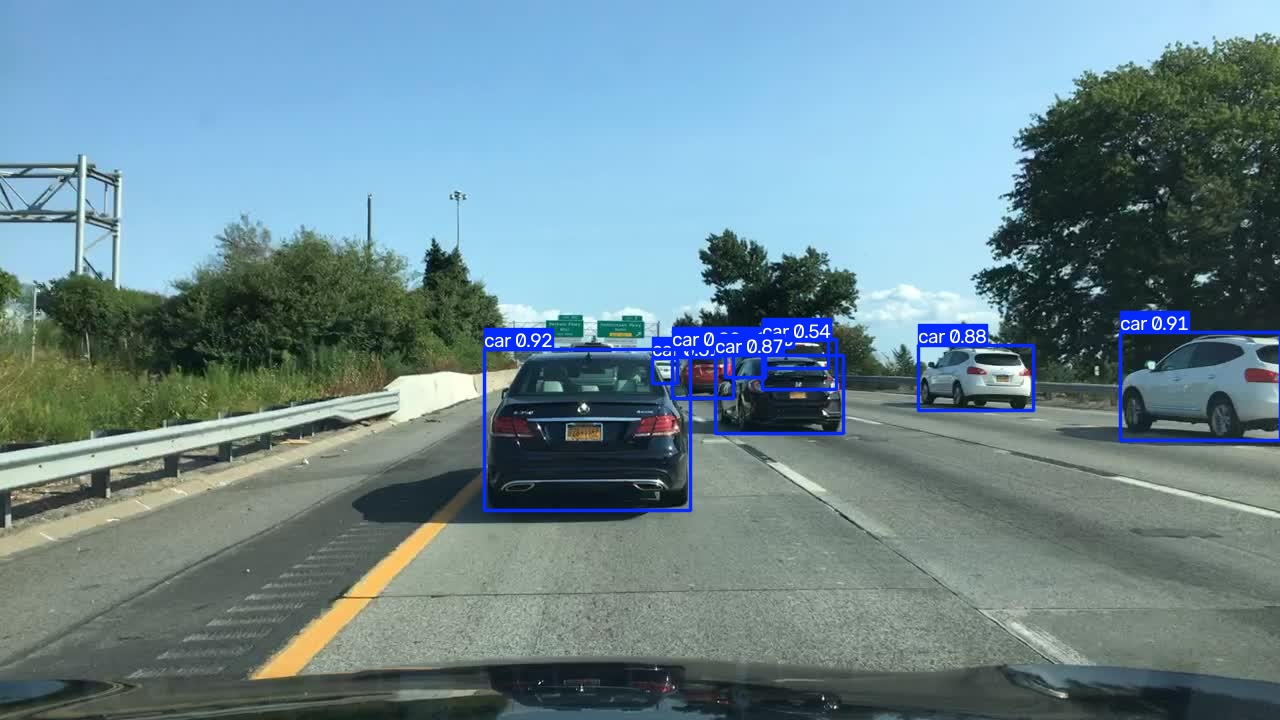
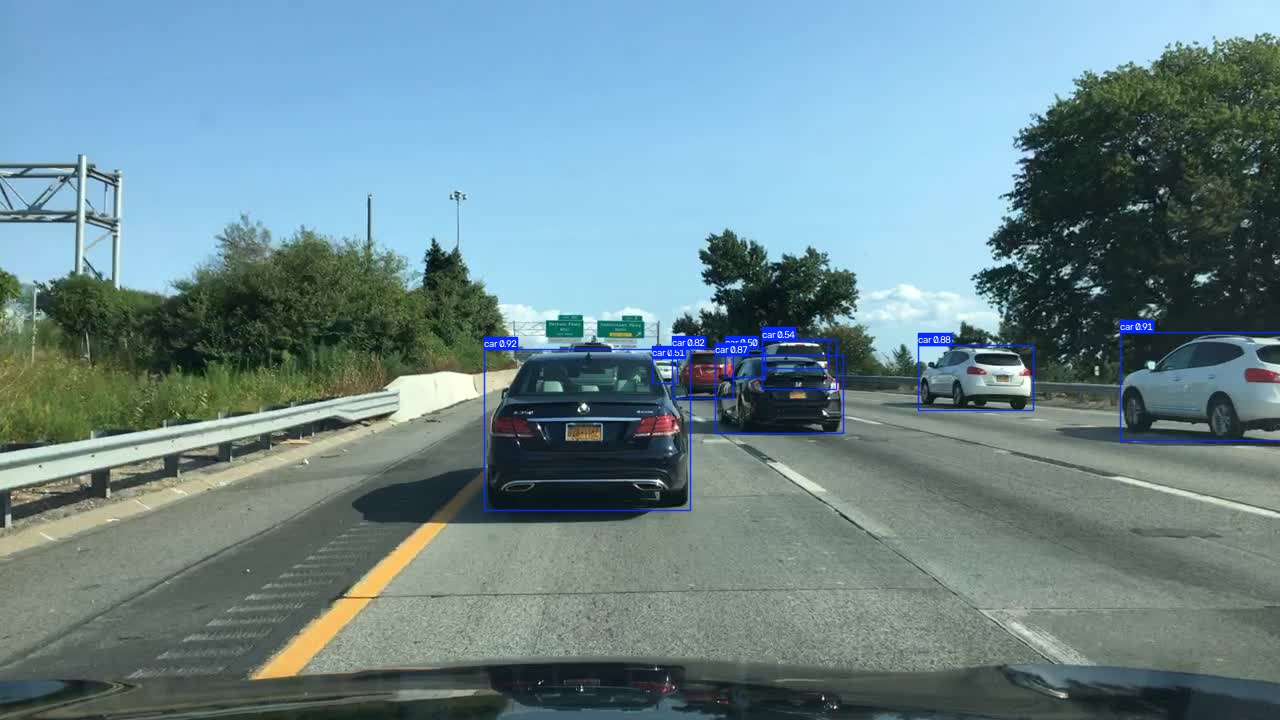
add test image of set3

diff --git a/scripts/eval_arm.py b/scripts/eval_arm.py
@@ -15,6 +15,12 @@ protocol, and the only scorer that reports mAP75 - ultralytics' val() exposes
 only mAP50 and mAP50-95). Rows are tagged with their scorer, so the two never
 get conflated.
 
+--plots-only reruns ultralytics' val() just to regenerate each split's plots
+(<run_dir>/eval/<split>/), without the pycocotools pass and without appending
+any rows to the metrics CSV. --samples N instead only draws the first N images
+of each split one per file (<run_dir>/test_pred_separate/<split>/), which is
+cheap enough to run on the local laptop.
+
 Must be run with the repo root as the working directory (same as train_arm.py).
 """
 
@@ -31,6 +37,30 @@ import train_arm
 ROOT = Path(__file__).resolve().parent.parent
 
 
+def save_samples(model: YOLO, splits: list[dict], out_root: Path, n: int, imgsz: int) -> None:
+    """Draw predictions on the first n images (by filename) of each split, one file per image."""
+    for split in splits:
+        data = yaml.safe_load((ROOT / split["data"]).read_text(encoding="utf-8"))
+        image_dir = ROOT / data["path"] / data["val"]
+        images = sorted(p for p in image_dir.iterdir() if p.suffix.lower() in {".jpg", ".jpeg", ".png"})[:n]
+        if not images:
+            print(f"[{split['name']}] no images found in {image_dir}, skipping")
+            continue
+        # line_width=1 keeps boxes and labels small enough to read on crowded street scenes
+        model.predict(
+            [str(p) for p in images],
+            imgsz=imgsz,
+            conf=0.25,
+            save=True,
+            project=str(out_root),
+            name=split["name"],
+            exist_ok=True,
+            line_width=1,
+            verbose=False,
+        )
+        print(f"[{split['name']}] saved {len(images)} images to {out_root / split['name']}")
+
+
 def main() -> None:
     parser = argparse.ArgumentParser()
     parser.add_argument("--config", required=True, type=Path)
@@ -39,6 +69,18 @@ def main() -> None:
         type=Path,
         default=None,
         help="Path to a .pt checkpoint. Defaults to runs/detect/<train.name>/weights/best.pt from the config.",
+    )
+    parser.add_argument(
+        "--plots-only",
+        action="store_true",
+        help="Regenerate each split's val plots only; skip pycocotools and write no metric rows.",
+    )
+    parser.add_argument(
+        "--samples",
+        type=int,
+        default=0,
+        metavar="N",
+        help="Only save per-image predictions for the first N images of each split, then exit.",
     )
     args = parser.parse_args()
 
@@ -51,6 +93,12 @@ def main() -> None:
         raise FileNotFoundError(f"No weights at {weights} - train this arm first, or pass --weights explicitly.")
 
     model = YOLO(weights)
+    run_dir = weights.resolve().parent.parent
+
+    if args.samples:
+        save_samples(model, cfg["eval_splits"], run_dir / "test_pred_separate", args.samples, train_kwargs["imgsz"])
+        return
+
     timestamp = train_arm.now_th()
     rows: list[dict] = []
     for split in cfg["eval_splits"]:
@@ -59,8 +107,16 @@ def main() -> None:
             split="val",
             imgsz=train_kwargs["imgsz"],
             batch=train_kwargs["batch"],
+            # weights live at <run_dir>/weights/best.pt; save plots next to them
+            project=str(run_dir / "eval"),
+            name=split["name"],
+            exist_ok=True,
         )
         rows.extend(train_arm.metrics_to_rows(arm_name, split["name"], split_metrics, timestamp))
+
+    if args.plots_only:
+        print(f"Saved plots for {len(cfg['eval_splits'])} splits under {run_dir / 'eval'} (no metric rows written)")
+        return
 
     coco_device = "0" if torch.cuda.is_available() else "cpu"
     for split in cfg["eval_splits"]:

diff --git a/scripts/train_arm.py b/scripts/train_arm.py
@@ -193,6 +193,11 @@ def main() -> None:
             split="val",
             imgsz=train_kwargs["imgsz"],
             batch=train_kwargs["batch"],
+            # keep each split's plots under this arm's run dir instead of
+            # ultralytics' default anonymous runs/detect/val-N folders
+            project=str(model.trainer.save_dir / "eval"),
+            name=split["name"],
+            exist_ok=True,
         )
         rows.extend(metrics_to_rows(arm_name, split["name"], split_metrics, timestamp))
         with log_path.open("a", encoding="utf-8") as f:
